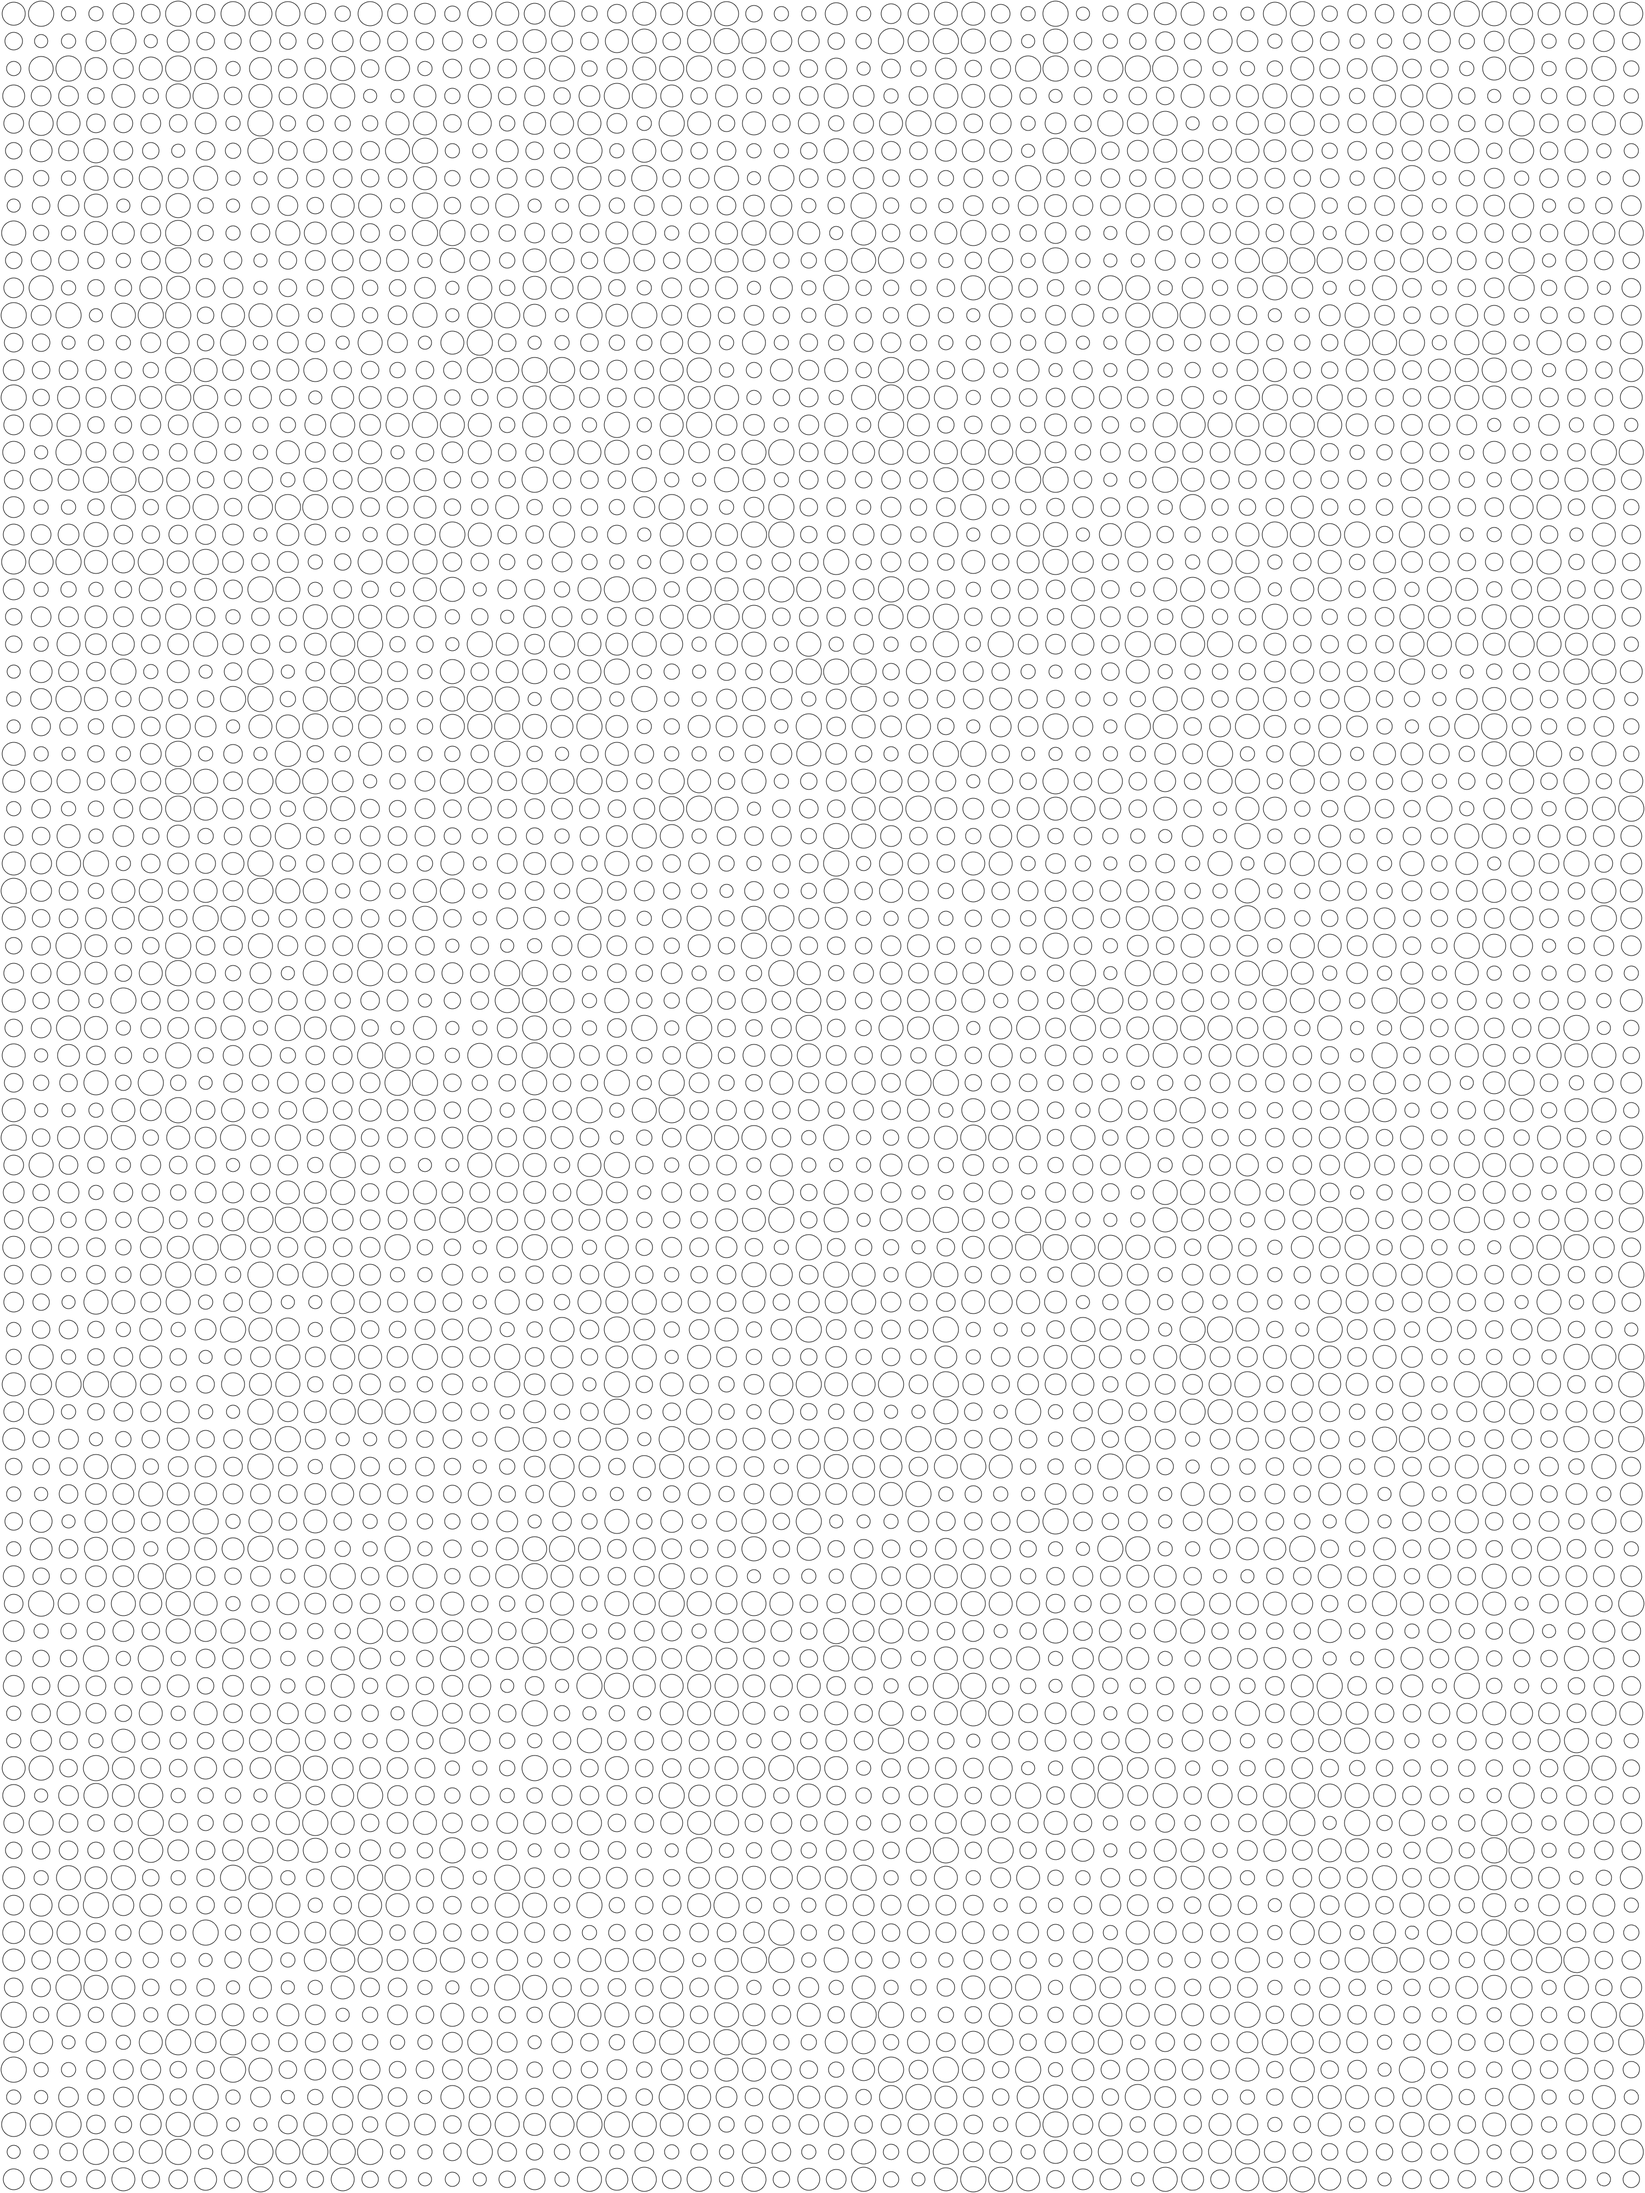
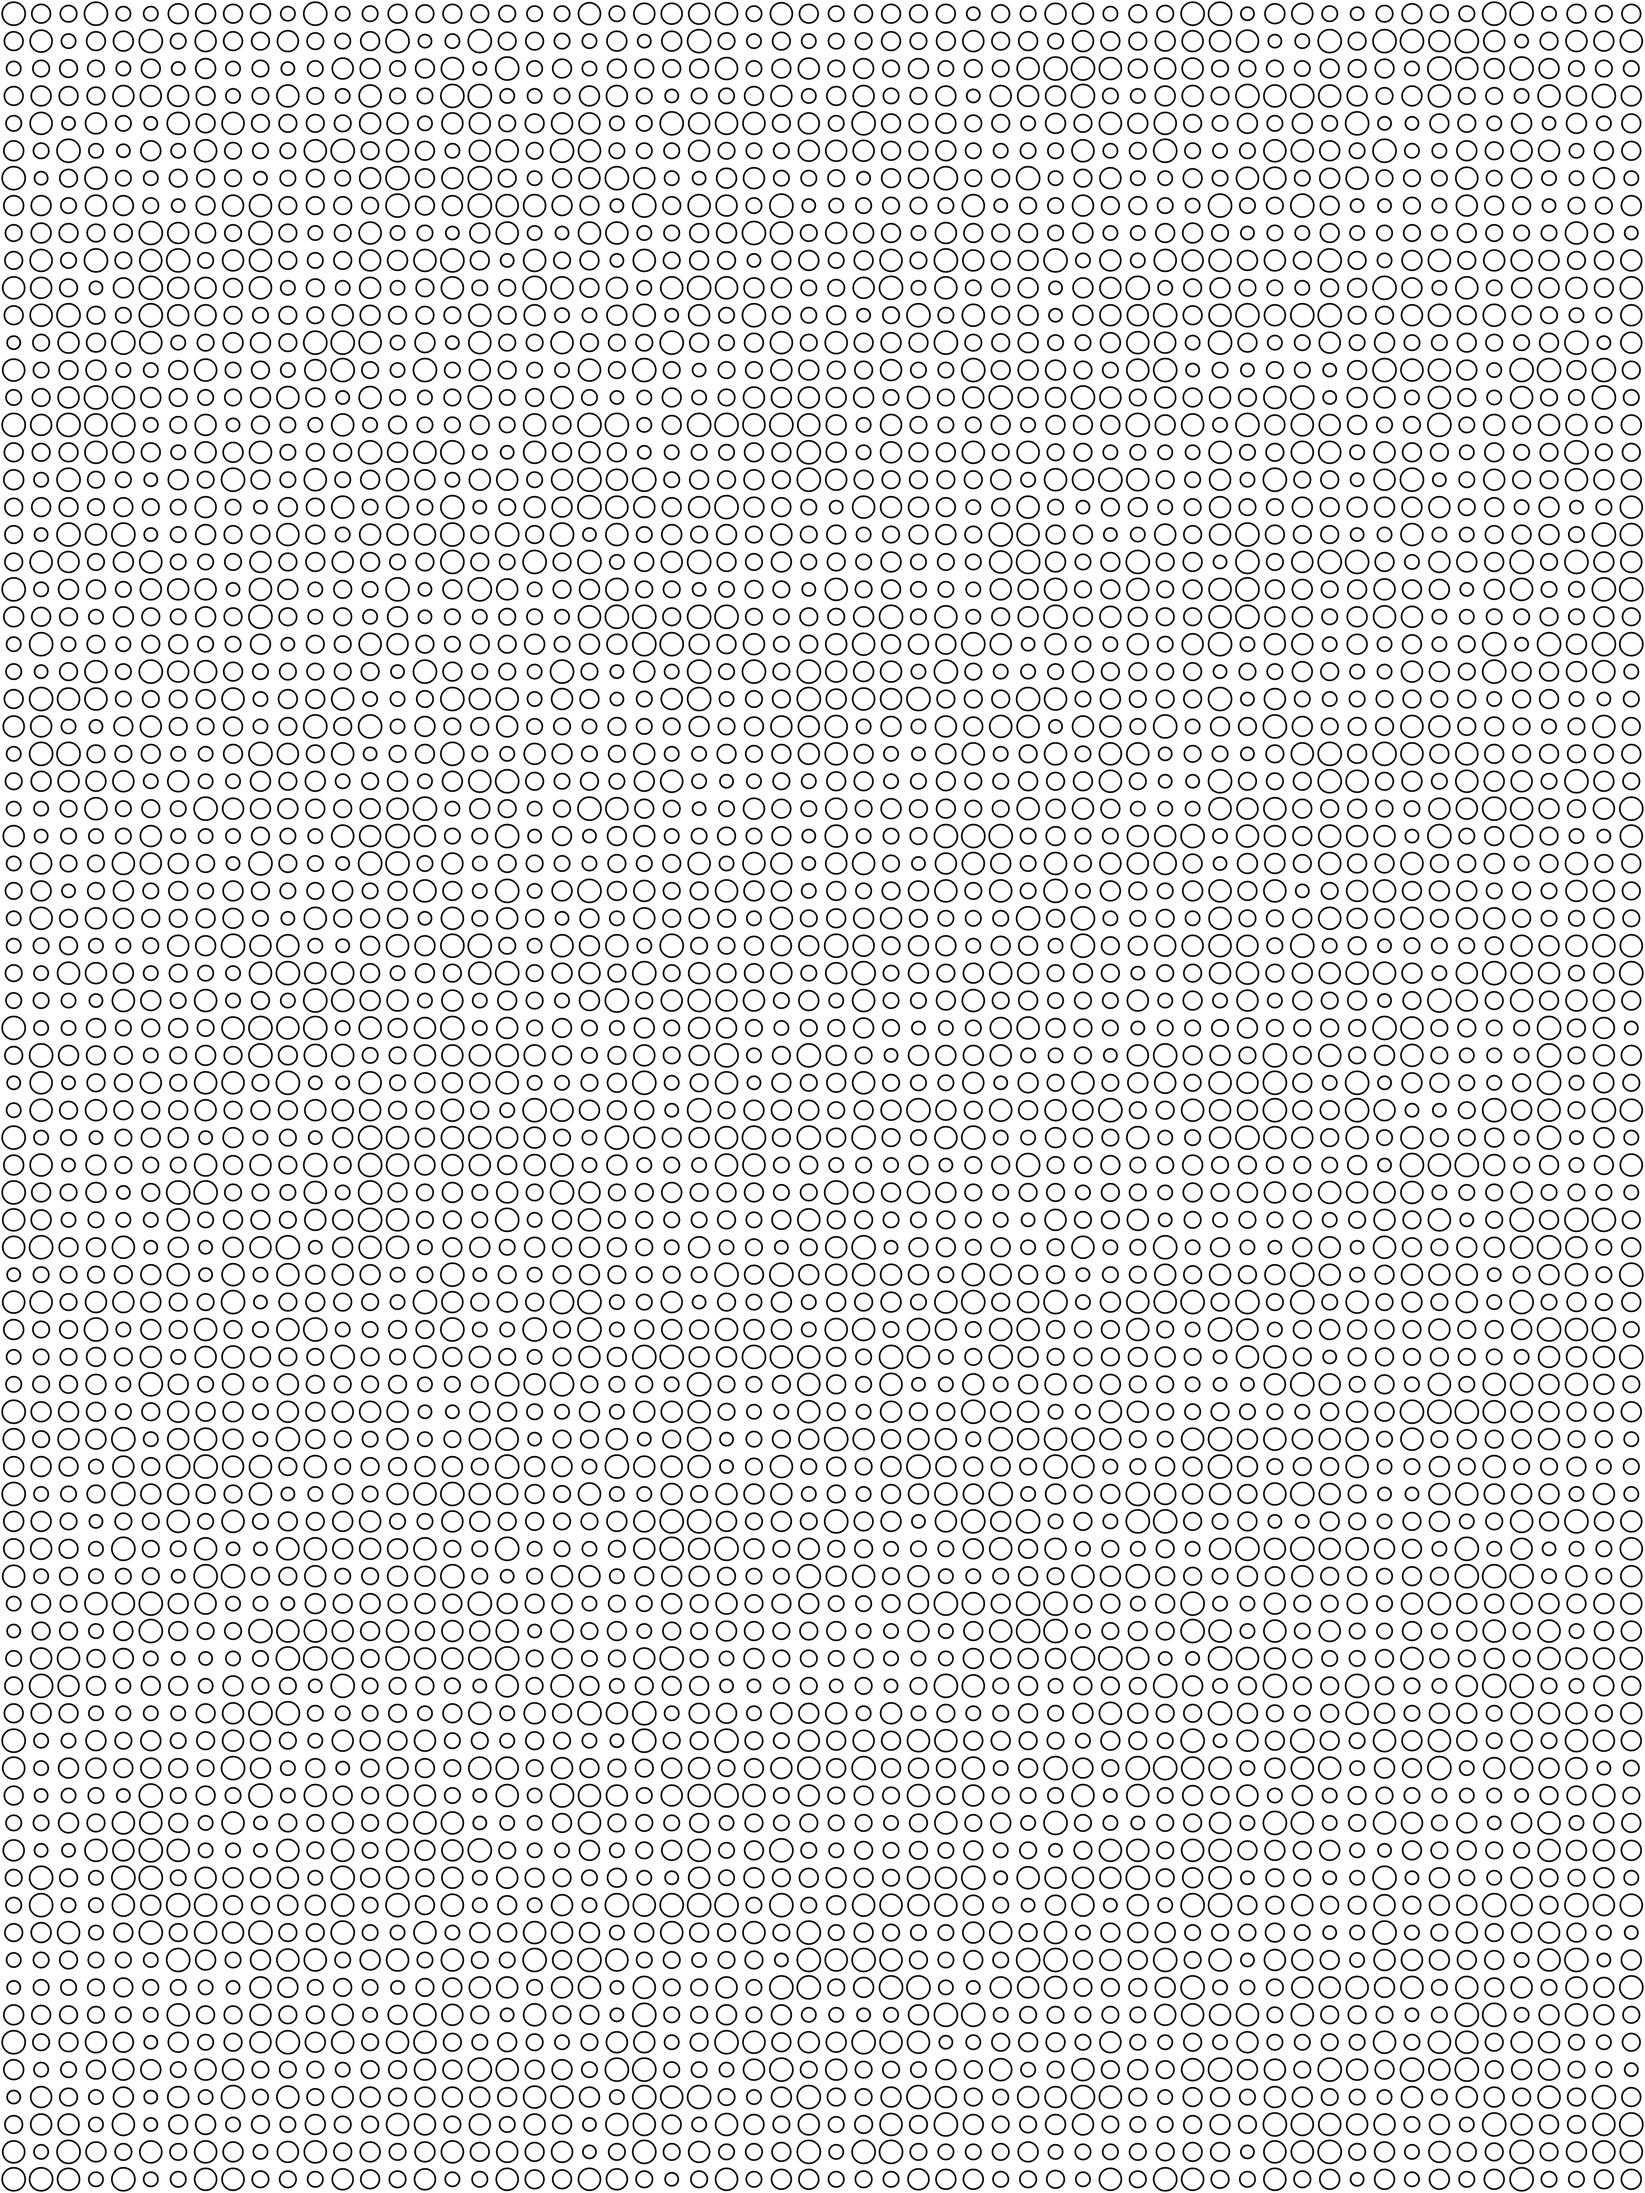
increase stroke width

Changed region(s): [[0.0, 0.0, 1.0, 1.0]]

diff --git a/bubbles.js b/bubbles.js
@@ -2,7 +2,7 @@ class Bubbles {
 	randomNumber(min,max) {
 	    return Math.floor(Math.random()*(max-min+1)+min);
 	}
-	// Default 80 tall, 60 wide (87 per inch)
+	// Default 80 tall, 60 wide (8 per inch)
 	draw(canvas, width=60, height=80, grid=50) {
 		// Grab the canvas element that was passed
 		var canvasContext = canvas.getContext("2d");
@@ -14,6 +14,7 @@ class Bubbles {
 		console.log('Size: ' + width + 'x' + height);
 		canvas.width = width*grid;
 		canvas.height = height*grid;
+		canvasContext.lineWidth = 3;
 
 		// Loop through columns
 		for(x=0; x<=width; x++) {
@@ -26,7 +27,7 @@ class Bubbles {
 				// TODO: Pick a random bubble size offset +/- 25%
 				var maxOffsetSize = grid * 0.25;
 				console.log('Max: ' + maxOffsetSize);
-				var bubbleSizeOffset = this.randomNumber(2, maxOffsetSize);
+				var bubbleSizeOffset = this.randomNumber(4, maxOffsetSize);
 				var bubbleDiameter = (grid/2) - bubbleSizeOffset;
 				console.log('Size: ' + bubbleDiameter + ' Offset:' + bubbleSizeOffset);
 
